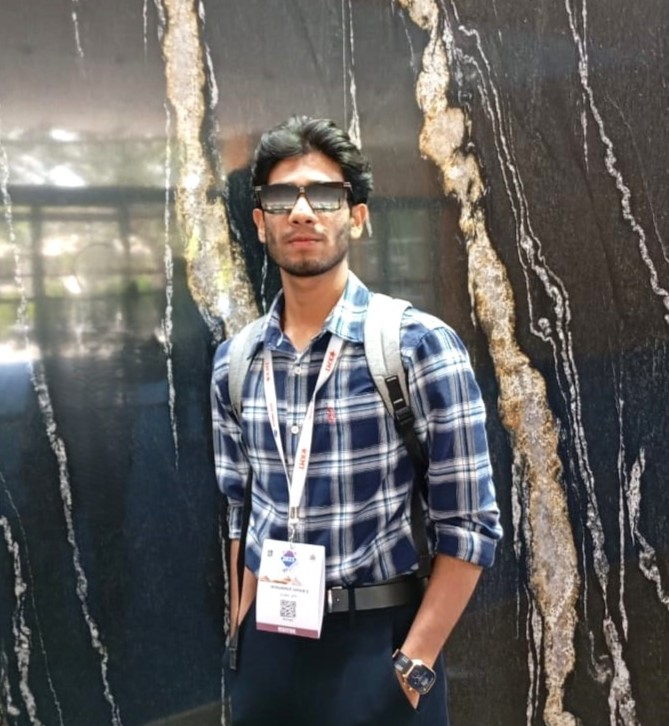
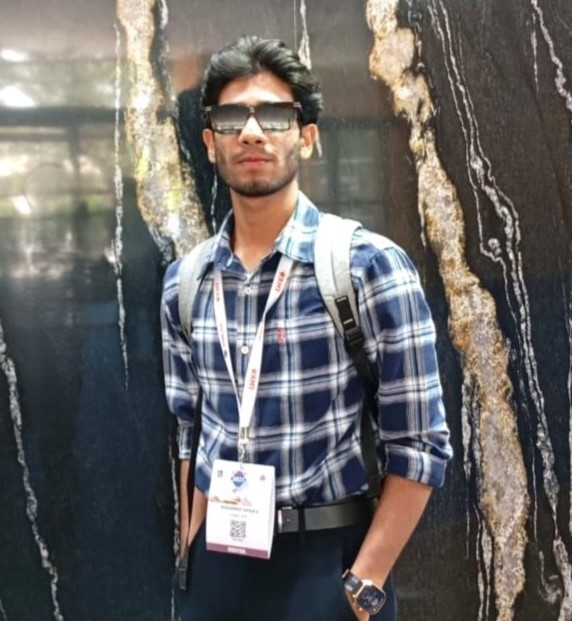
changes

diff --git a/app/page.tsx b/app/page.tsx
@@ -175,7 +175,7 @@ export default function Home() {
             <div className="flex flex-col items-center text-center">
               <div className="w-48 h-48 rounded-full overflow-hidden mb-4">
                 <Image
-                  src="/founder2.jpg?height=192&width=192"
+                  src="/founder2.jpeg?height=192&width=192"
                   width={192}
                   height={192}
                   alt="Founder 2"
